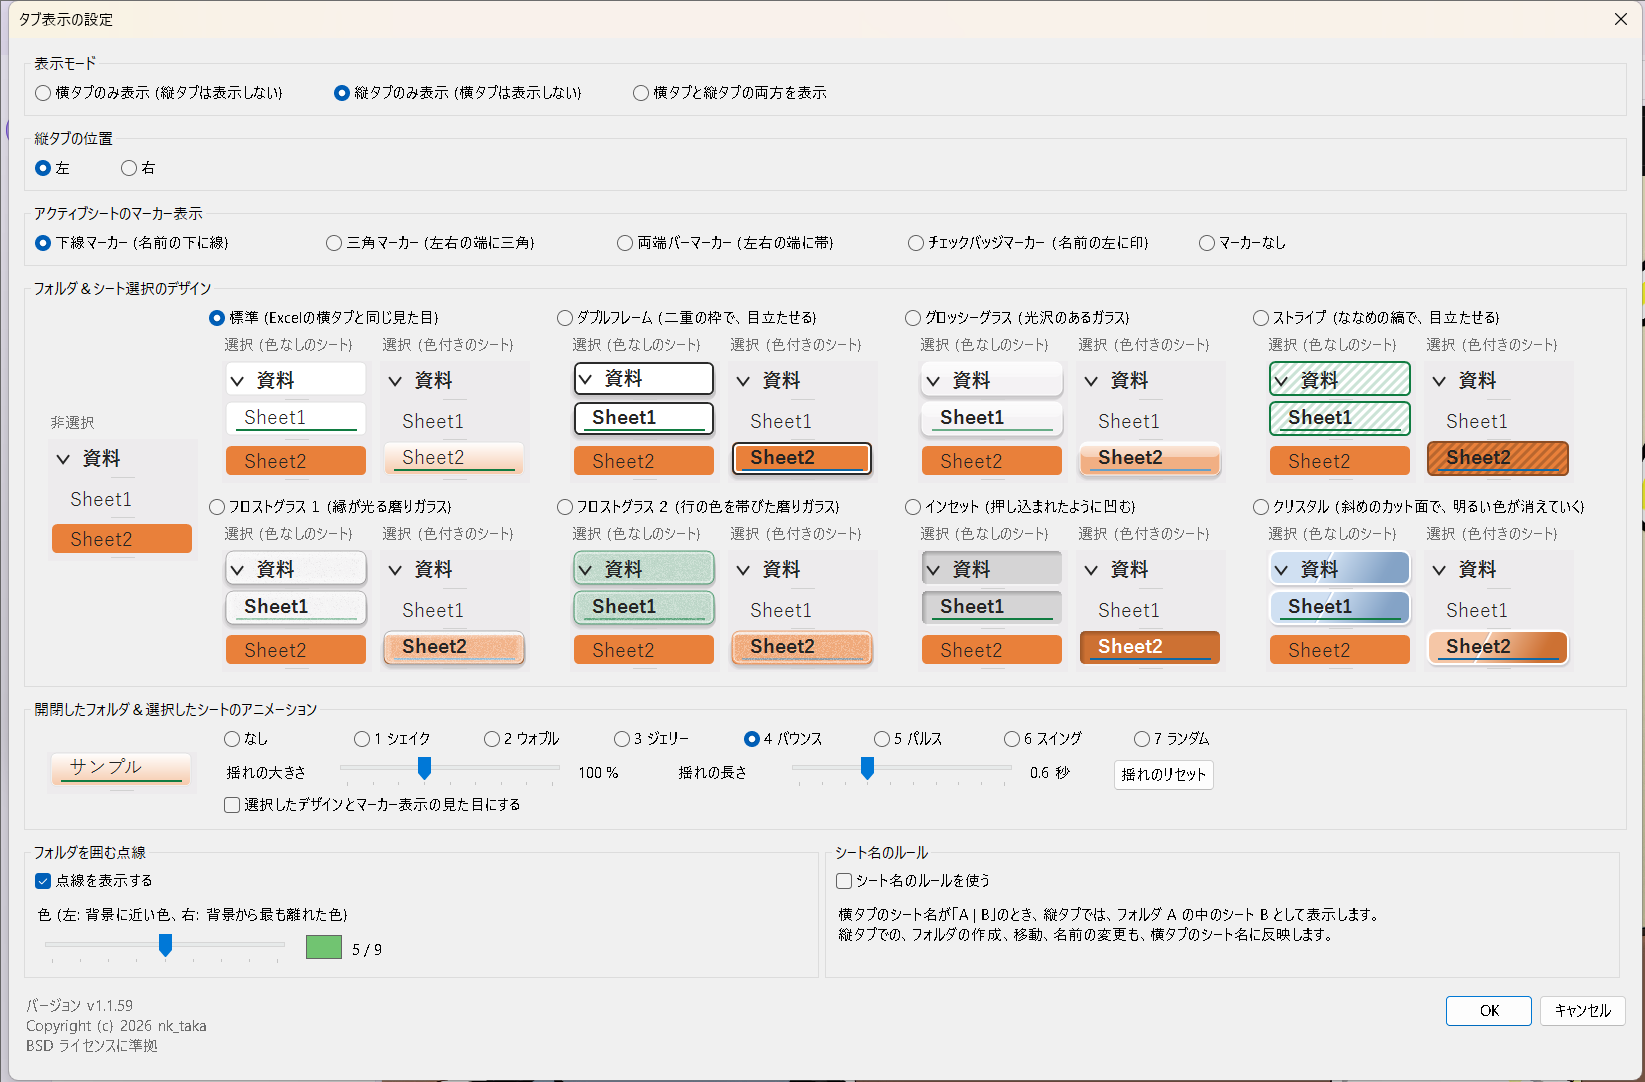
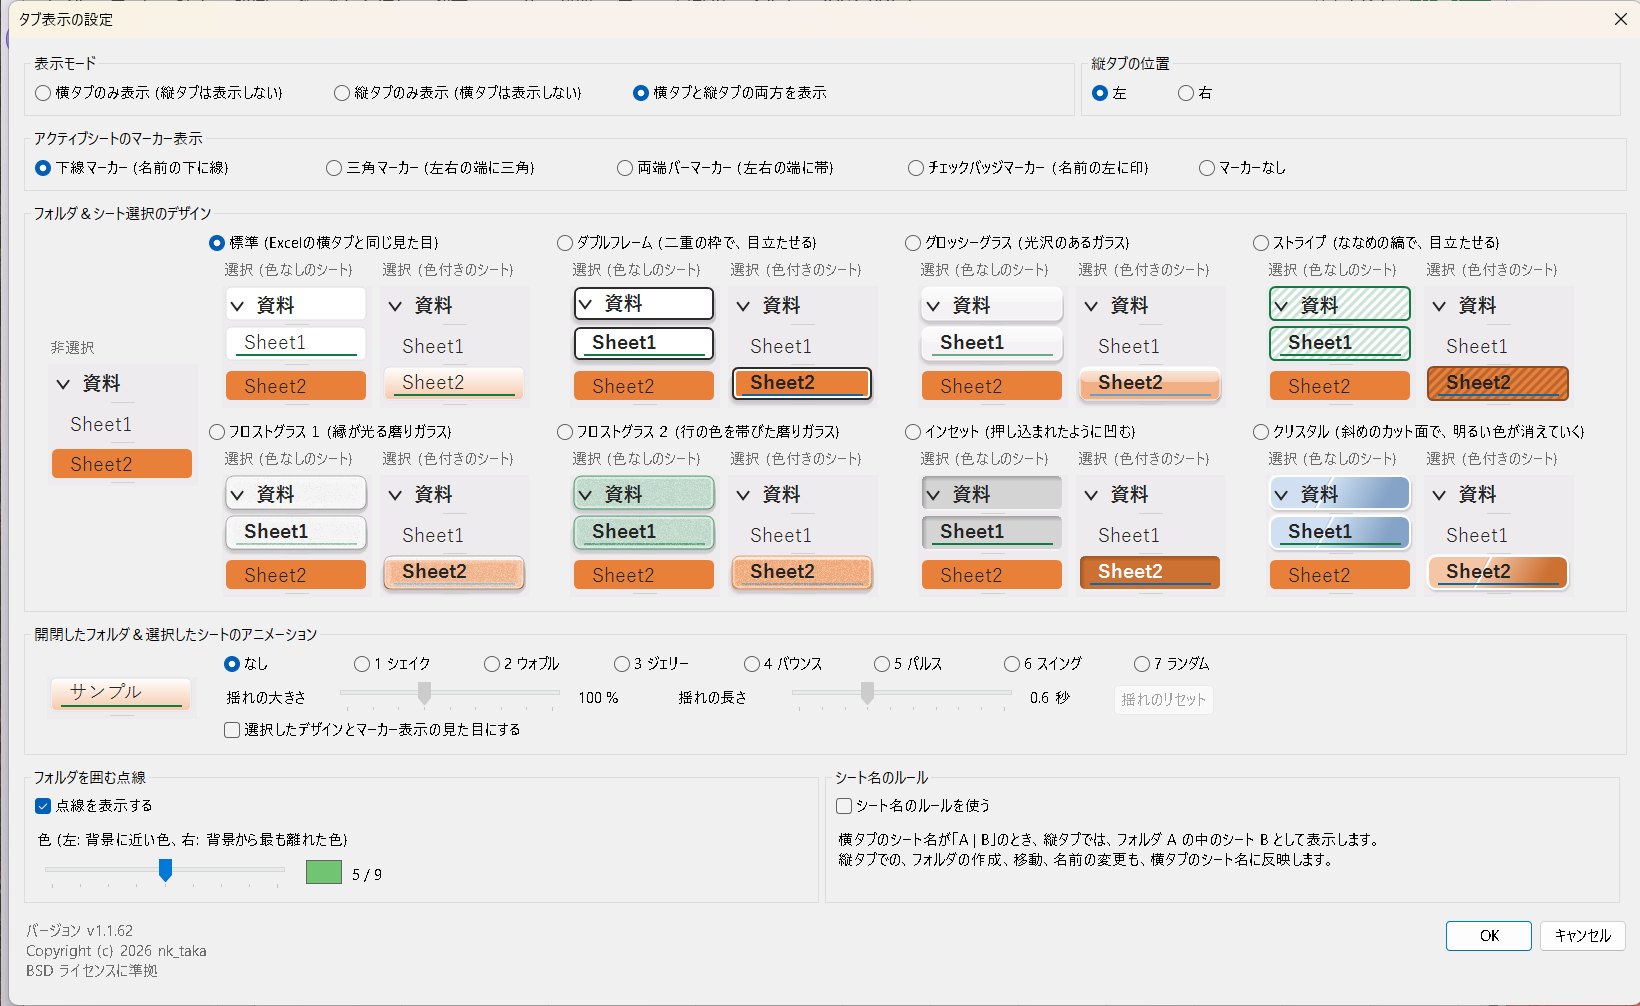
README の設定画面の画像を、新しい配置で撮り直す

diff --git a/Agents.md b/Agents.md
@@ -2129,4 +2129,4 @@ gitGraph
 
 - ユーザーの要望により、「タブ表示の設定」の「縦タブの位置」のグループを、「表示モード」の下から、同じ段の右隣に移した (`SettingsForm`。上の段に、表示モード (左) と縦タブの位置 (右) が並ぶ)。縦タブの位置のグループは、グループ全体の幅の約34% (ユーザーが図で示した幅)、表示モードのグループが、残りの幅を取る。2つのグループの高さは、そろえる。縦タブの位置の中身 (左 / 右) と、「横タブのみ表示」を選ぶと無効になる動作は、変えていない。設定画面は、その分、縦に1段低くなった
 - 確認: Debugビルドの DLL を読み込んで、設定画面を描画した (拡大率125%)。上の段に、2つのグループが並び、縦タブの位置は、表示モードが「横タブのみ」のとき、灰色になる (サンプルの大きさは、この確認の方法では、実機と異なる)
-- README の `settings_full.png` と、`README.md` 1.2 の画像は、まだ、この配置に撮り直していない (表示モードと縦タブの位置が、上下に並んだ、以前の画面)
+- README の画像 `settings_full.png`、`settings_design.png`、`settings_anim.png` を、この配置の実機の画面 (アドインを読み込んだ Excel の、リボンの「タブ表示の設定」から開いた画面。拡大率125%) で、撮り直した。`settings_design.png` と `settings_anim.png` は、その画面の切り出し。実機では、サンプルの見切れ、スクロールバーは出ない。なお、設定画面だけを単独の画面に描画して確認するときは、`DpiHelper.ExcelWindow` を設定しないと、サンプルの縦幅が足りず、見切れとスクロールバーが出る (確認方法の制約。実機の不具合ではない)
